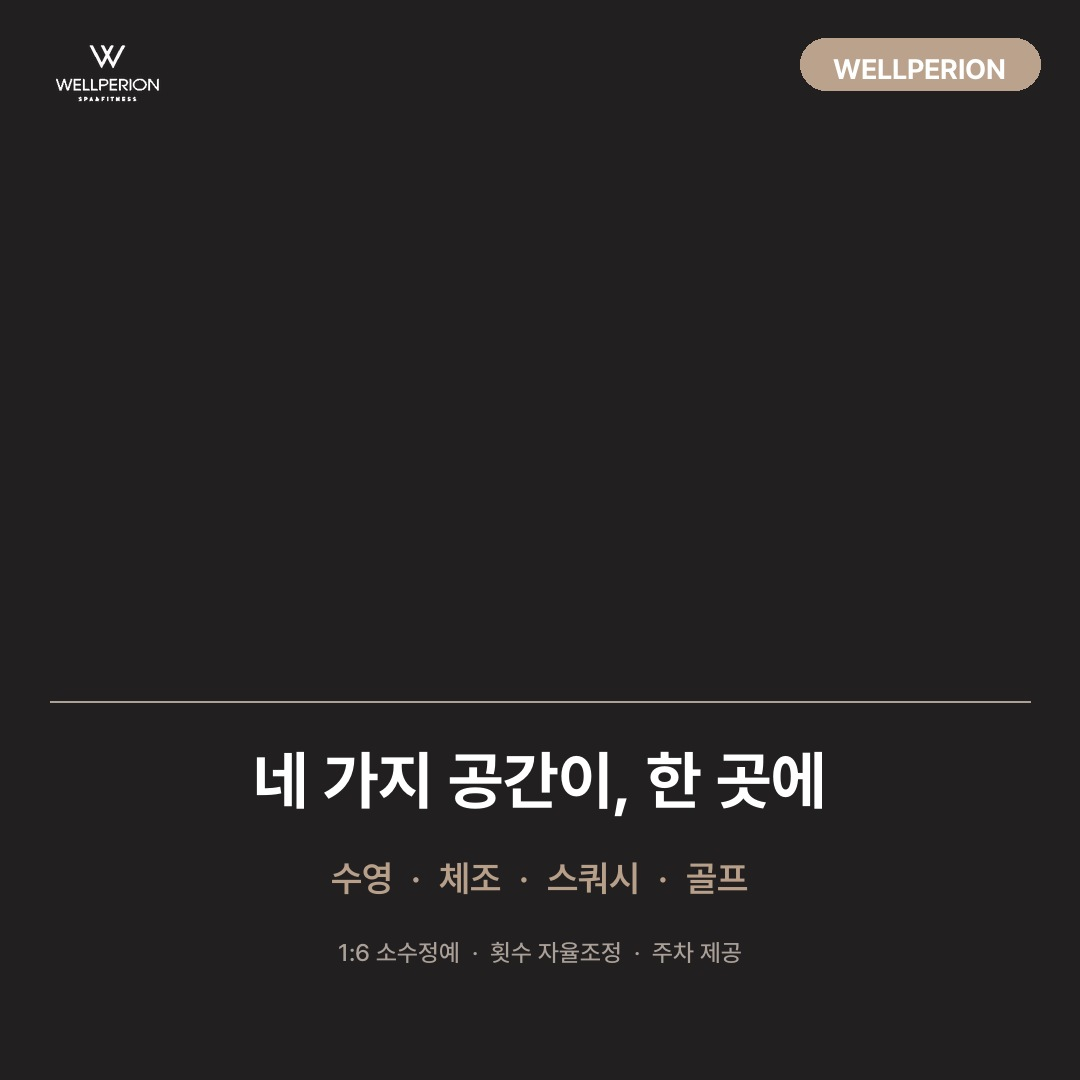
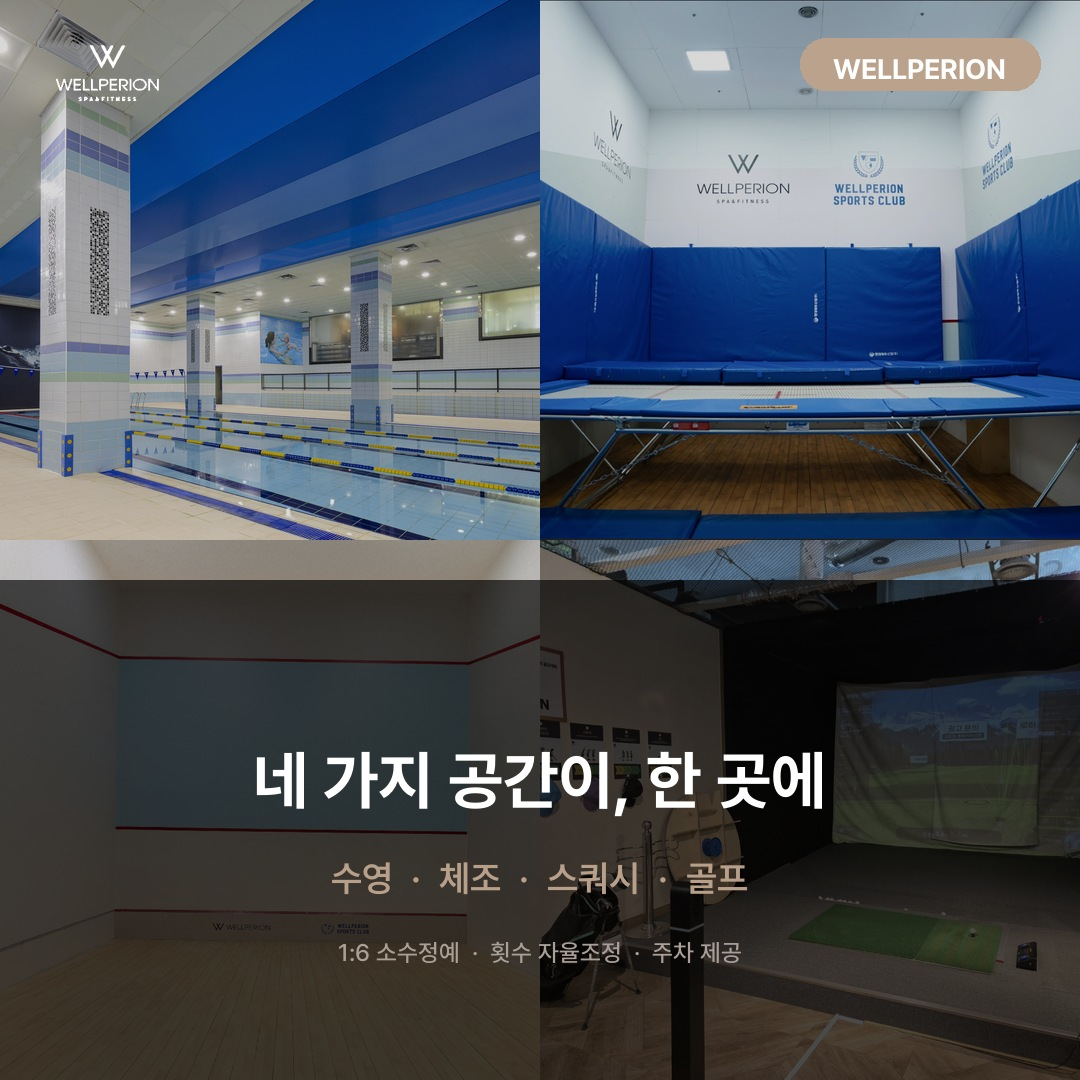
[시모] feat(ep1): post_7 마무리 슬라이드 — 단색→4장 2×2 그리드
GM 지시: 마지막 슬라이드를 수영·체조·스쿼시·골프 4종 공간을
2×2 사진 그리드로 변경. "네 가지 공간이, 한 곳에" 메시지와 정합.
post_1~6 단일사진 원칙은 유지, 이 장만 의도적 예외.

- compose_closing_card: 단색 검정 → 4장 center_crop_fill 540×540 사분면
- 밝기 0.85 + 반투명 다크 스크림(α168) 텍스트 가독성 확보
- 로고·칩·메인·부제·소형정보 좌표 동일 유지
- M5 preview·slides 갱신, 텔레그램 수정본 카드 재발송
- status=검수대기 유지, 자동발행 없음

Claude-Session: https://claude.ai/code/session_01U6FrQ2Mch3MW7weKchXzVB

diff --git a/instagram/260629_여름방학특강_ep1/build_slides.py b/instagram/260629_여름방학특강_ep1/build_slides.py
@@ -126,19 +126,36 @@ def compose_story_no_counter(
 
 
 def compose_closing_card(output_path: Path) -> None:
-    """마무리 단색 정보띄 (사진 없음, compose_cover 스타일 중앙정렬).
-    골프룸 중복 방지 우한 순수 검정 배경."""
-    canvas = Image.new("RGB", (W, H), BLACK_BG)
+    """마무리 2×2 그리드 (4장 공간 사진, 사분면 각 540×540).
+    GM 지시 (2026-06-29): 네 가지 공간을 한 번에 모아 보여주는 의도적 예외.
+    post_1~6 단일사진 원칙은 유지, 이 장만 예외."""
+    HALF = W // 2  # 540
 
-    # 분리선 (표지와 동일: y=701~702)
-    draw_base = ImageDraw.Draw(canvas)
-    draw_base.rectangle([(50, 701), (1030, 702)], fill=SEP_LINE)
+    # 사분면: 좌상=수영, 우상=체조(트램폴린), 좌하=스쿼시, 우하=골프
+    grid_photos = [
+        (SRC / "3. 수영장.jpg",  0,    0),
+        (SRC / "트램폴린장.png", HALF, 0),
+        (SRC / "스쿼시장.png",   0,    HALF),
+        (SRC / "골프룸.jpg",     HALF, HALF),
+    ]
+
+    canvas = Image.new("RGB", (W, H), (0, 0, 0))
+    for src_path, x, y in grid_photos:
+        tile = center_crop_fill(src_path, HALF, HALF)
+        tile = ImageEnhance.Brightness(tile).enhance(0.85)
+        canvas.paste(tile, (x, y))
+
+    # 반투명 다크 스크림 — 텍스트 가독성 확보 (y=580 이하)
+    scrim_overlay = Image.new("RGBA", (W, H), (0, 0, 0, 0))
+    scrim_draw = ImageDraw.Draw(scrim_overlay)
+    scrim_draw.rectangle([(0, 580), (W, H)], fill=(0, 0, 0, 168))
+    canvas = Image.alpha_composite(canvas.convert("RGBA"), scrim_overlay).convert("RGB")
 
     canvas = paste_logo(canvas, logo_w=130)
     draw = ImageDraw.Draw(canvas)
     _draw_chip_official(draw)
 
-    # 메인 제목 (흔색 bold 64px, 중앙 y=780)
+    # 메인 (흰색 bold 64px, 중앙 y=780)
     draw.text(
         (W // 2, 780),
         "네 가지 공간이, 한 곳에",
